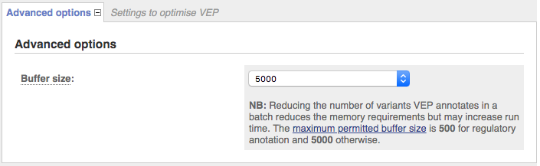
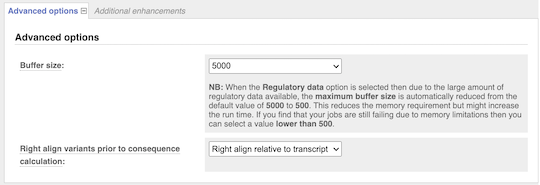
Add shift_genomic and shift_3prime to web VEP (#382)

diff --git a/docs/htdocs/info/docs/tools/vep/online/input.html b/docs/htdocs/info/docs/tools/vep/online/input.html
@@ -548,7 +548,12 @@ enter your data and alter various options.</p>
             <li><b>Buffer size</b>
               <p>By default VEP process the variants by blocks of 5000 (i.e. what we call "buffer size").<br />
 In some cases, reducing the size of the blocks (buffer size) could prevent memory issues for large VEP queries (e.g. use of regulatory data, many plugins or custom annotations).<br />
-This is why the maximum buffer size is automatically set to 500 on the VEP Web interface when the "Regulatory data" option is selected.</p>
+This is why the maximum buffer size is automatically set to 500 on the VEP Web interface when the "Regulatory data" option is selected.</p></li>
+
+<li><b>Right align variants prior to consequence calculation</b>
+  <p>By default VEP performs consequence calculation at the given input coordinates.<br />
+Optionally, VEP can shift insertions and deletions found within repeated regions as far as possible in the 3' direction, normalising output.
+</ul>
         </div>
     </div>
 

diff --git a/docs/htdocs/info/docs/tools/vep/script/vep_download.html b/docs/htdocs/info/docs/tools/vep/script/vep_download.html
@@ -125,6 +125,7 @@ cd ensembl-vep-release-[[SPECIESDEFS::ENSEMBL_VERSION]]/</pre>
       </li>
       <li> Web VEP options:
         <ul>
+	  <li>Shifting variants in the 3' direction with <a href="vep_options.html#opt_shift3prime">--shift_3prime</a> and <a href="vep_options.html#opt_shiftgenomic">--shift_genomic</a> is now supported through the web interface.</li>
           <li><a href="//github.com/Ensembl/VEP_plugins/blob/release/[[SPECIESDEFS::ENSEMBL_VERSION]]/DisGeNET.pm" rel="external">DisGeNET</a> - <b>new</b>: DisGeNET results are available through the web interface.</li>
           <li><a href="//github.com/Ensembl/VEP_plugins/blob/release/[[SPECIESDEFS::ENSEMBL_VERSION]]/SpliceAI.pm" rel="external">SpliceAI</a> - <b>new</b>: SpliceAI results are available through the web interface.</li>
         </ul>
